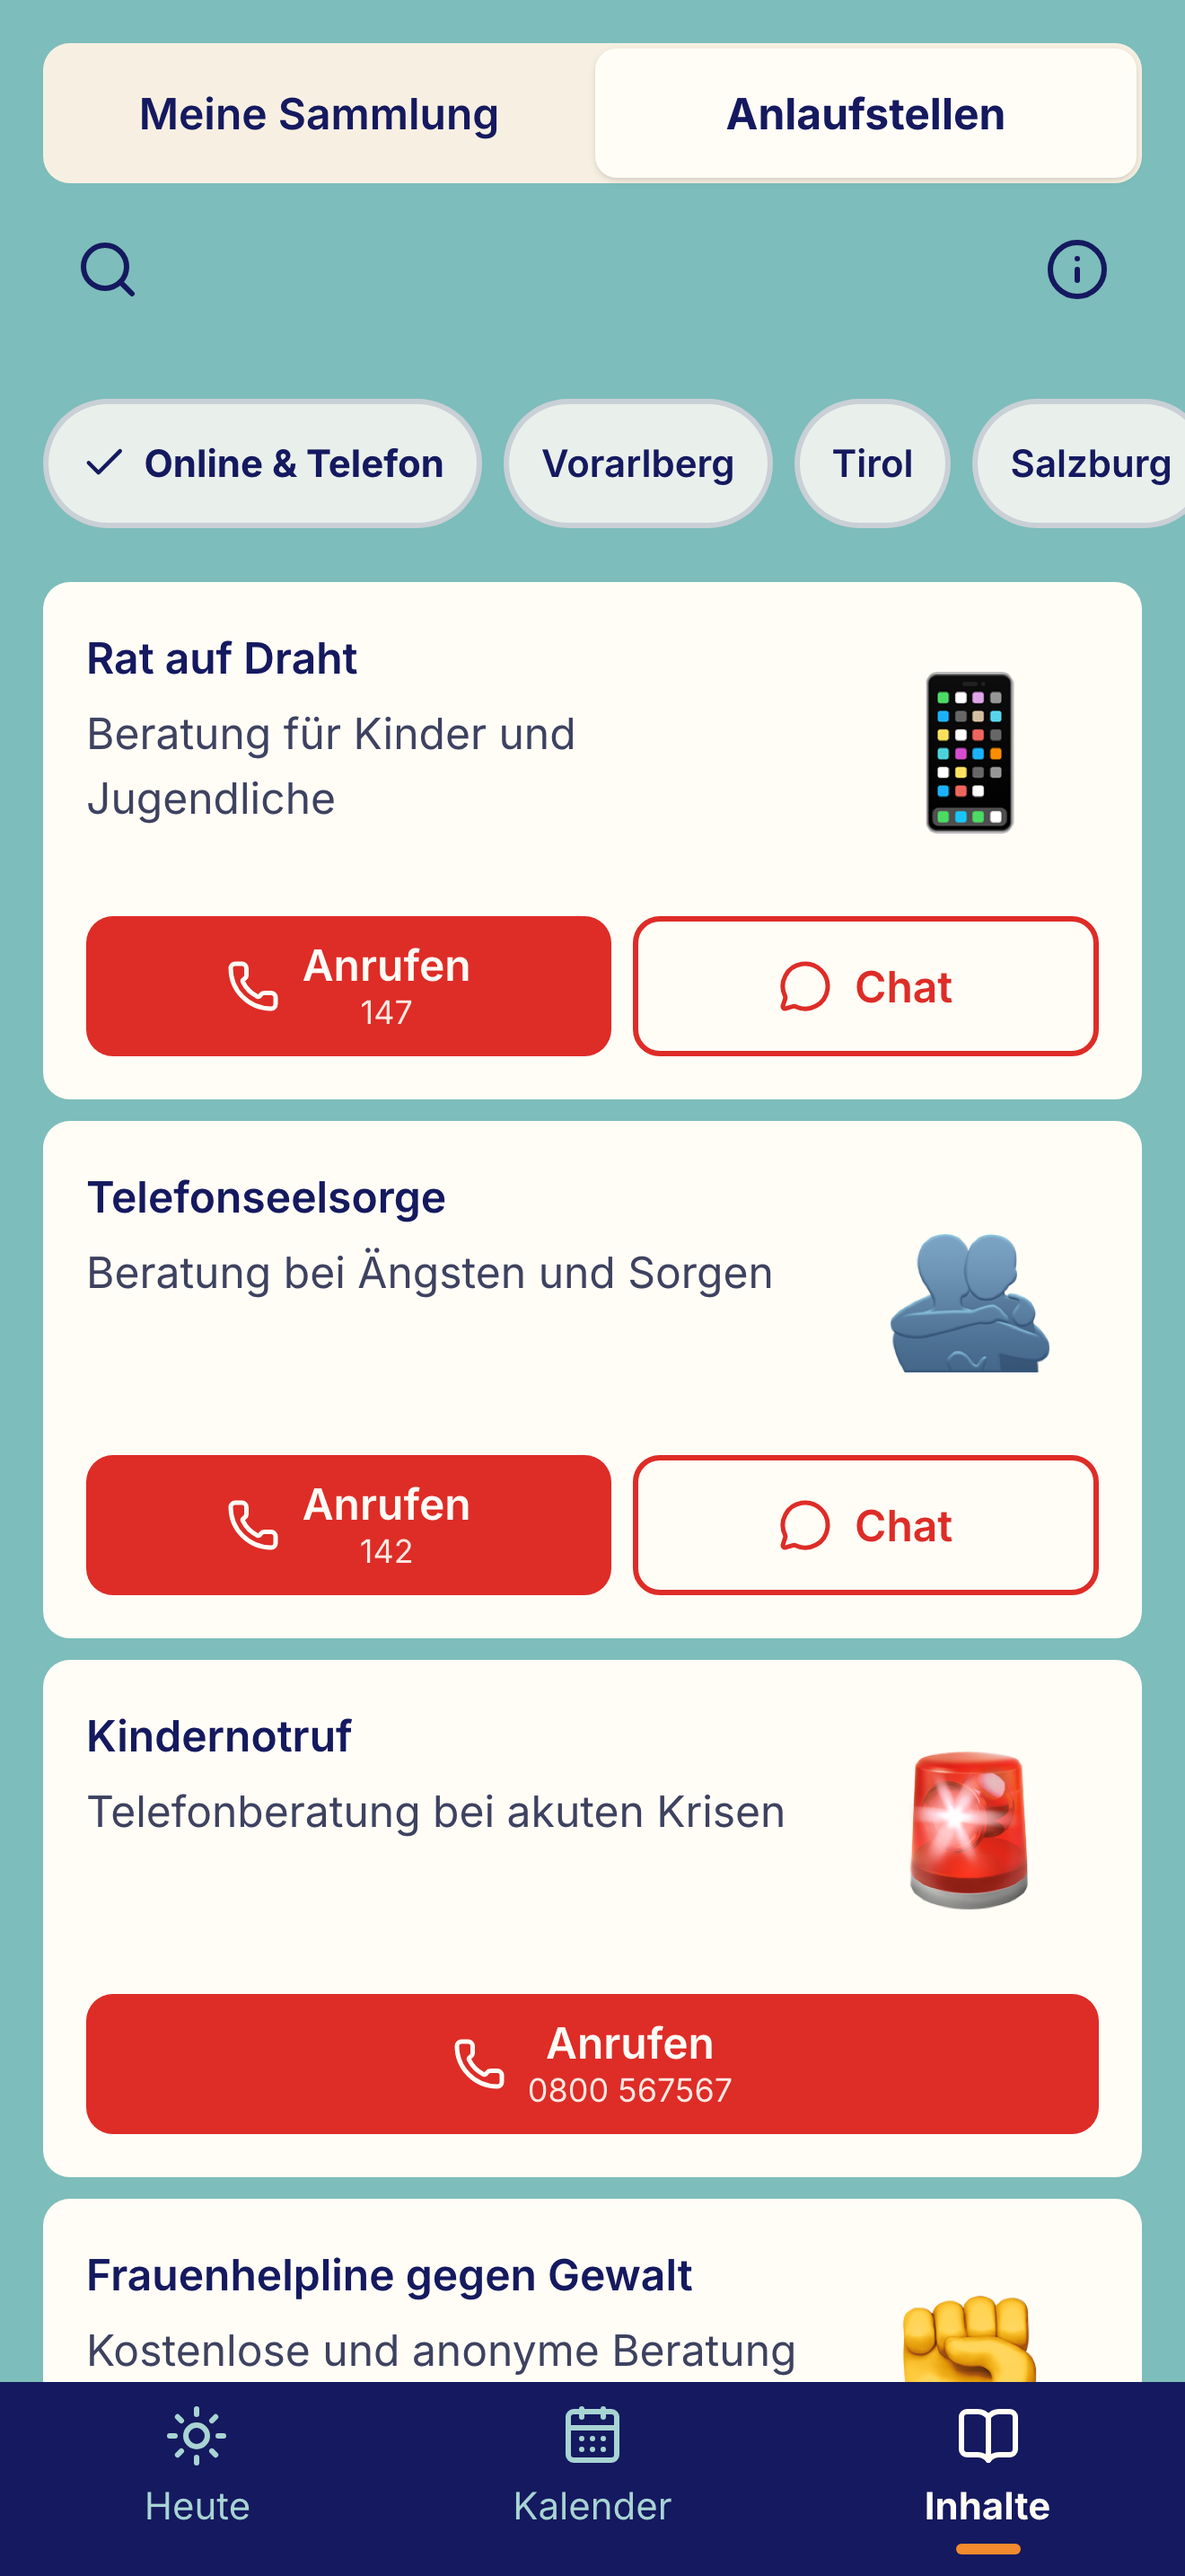
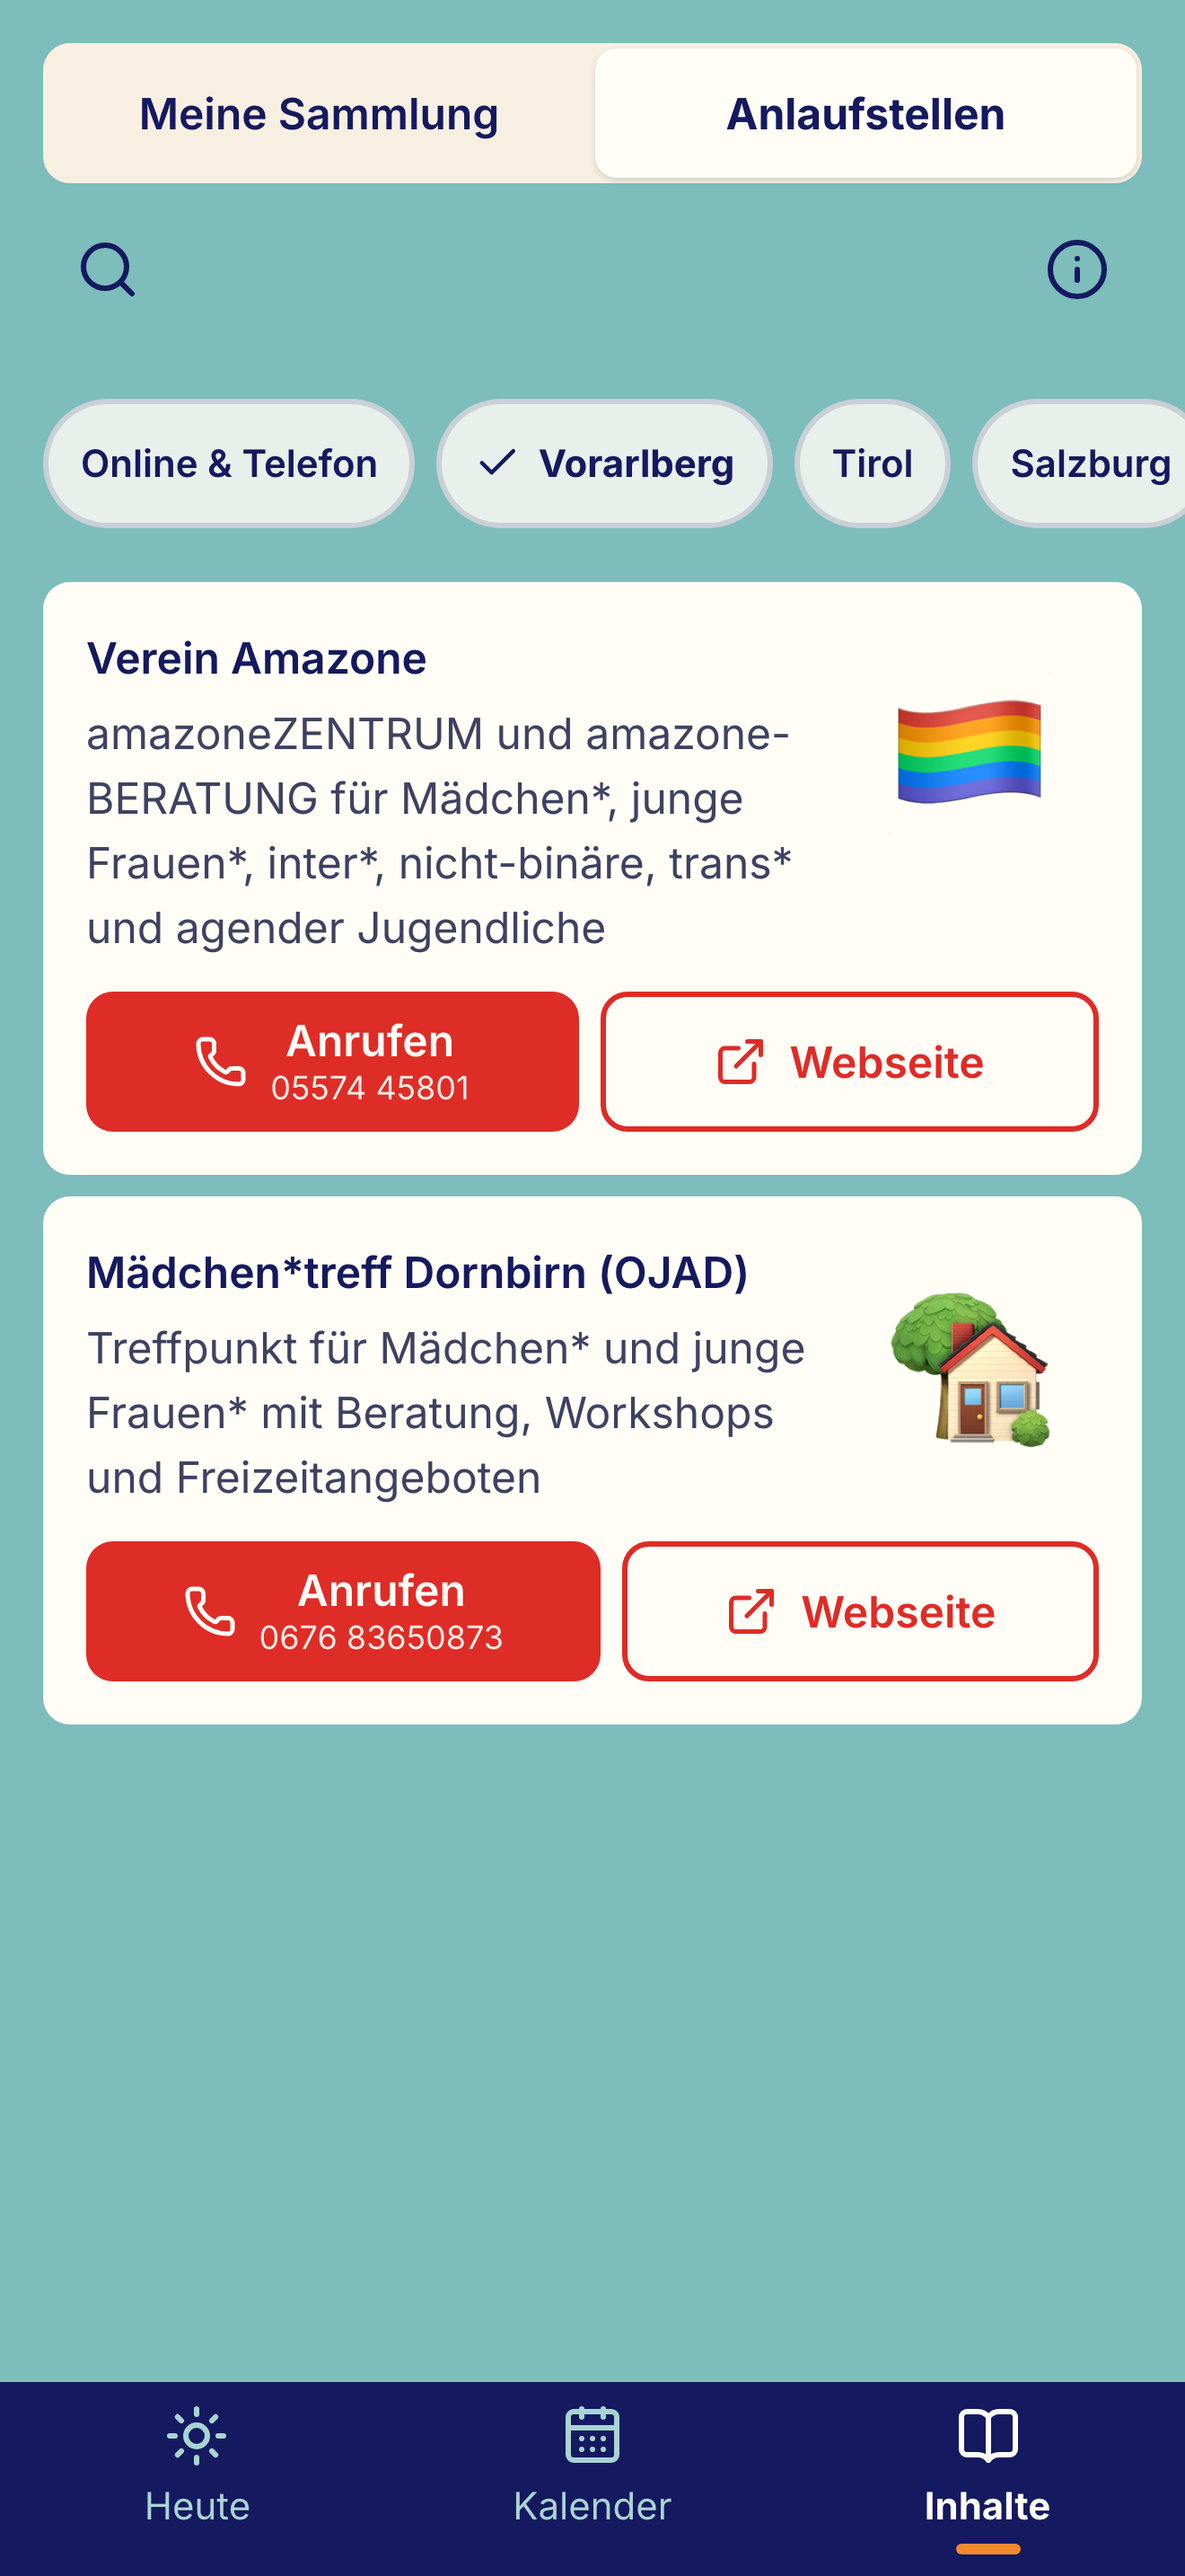
feat(store): refresh the store screenshots with Verein Amazone's picks
Verein Amazone asked for younger, more current content in the screenshots:

- Heute features the Wissensimpuls „Heute ist Feministischer Kampftag!“ instead of Clara Zetkin.
  The daily pick is weighted random, so the spec writes it into the impulse store.
- The Rebell*in is the astronaut Christina Koch (NASA portrait, public domain) instead of Ada
  Lovelace.
- The Wissensimpuls is #mikrofeminismus, and Meine Sammlung holds Christina Koch,
  #mikrofeminismus, „Ally“ and „Tipps gegen Hass im Netz“.
- Anlaufstellen opens on Vorarlberg, so Verein Amazone comes first.

All screenshots, the feature graphic (with the new icon) and the website's copies are re-rendered;
the website's alt texts and site/ASSETS.md follow the new content.

diff --git a/scripts/store-screenshots/store-screenshots.spec.ts b/scripts/store-screenshots/store-screenshots.spec.ts
@@ -34,13 +34,21 @@ const NOW = new Date('2026-03-08T09:30:00+01:00');
 const TODAY = '2026-03-08';
 
 /**
- * The content the screenshots show. Rebell*innen whose portraits are in the public domain and
- * Wissensimpulse illustrated by Verein Amazone itself, so no screenshot carries third-party licence
- * terms into the store (see `public/content/images.json`).
+ * The content the screenshots show, as Verein Amazone chose it: a Rebell*in of today whose portrait
+ * is in the public domain (Christina Koch) and Wissensimpulse illustrated by Verein Amazone itself,
+ * so no screenshot carries third-party licence terms into the store (see
+ * `public/content/images.json`).
  */
-const REBELLIN_ID = 'reb-09';
-const WISSEN_ID = 'wi-10';
-const BOOKMARKED_IDS = [REBELLIN_ID, WISSEN_ID, 'reb-33', 'wi-08'];
+const REBELLIN_ID = 'reb-02';
+const WISSEN_ID = 'wi-06';
+const BOOKMARKED_IDS = [REBELLIN_ID, WISSEN_ID, 'wi-18', 'wi-07'];
+
+/**
+ * Heute's impulse: „Heute ist Feministischer Kampftag!“, which fits the pinned date. The daily pick
+ * is weighted random over the catalog, so it is written into the store instead of left to chance -
+ * the stored pick for today is what Heute shows (see `DailyImpulseInteractor`).
+ */
+const IMPULSE_ID = 'wi-08';
 
 /** Stores read the colour values only; an alpha channel makes Play reject the feature graphic. */
 async function writeOpaquePng(png: Buffer, path: string): Promise<void> {
@@ -158,11 +166,25 @@ test.describe('store screenshots', () => {
       path: string;
       ready: (page: Page) => Promise<unknown>;
       before?: (page: Page) => Promise<unknown>;
+      /** Runs after the navigation, for state the route cannot express. */
+      prepare?: (page: Page) => Promise<unknown>;
     }[] = [
       {
         name: 'heute',
         path: '/today',
-        ready: (p) => expect(p.getByText('Kaffee mit Mira')).toBeVisible(),
+        ready: async (p) => {
+          await expect(p.getByText('Kaffee mit Mira')).toBeVisible();
+          await expect(p.getByText('Heute ist Feministischer Kampftag!')).toBeVisible();
+        },
+        before: (p) =>
+          p.evaluate(
+            ({ day, itemId }) =>
+              localStorage.setItem(
+                'rk.dailyImpulse',
+                JSON.stringify({ day, itemId, recentIds: [itemId], seenDay: day }),
+              ),
+            { day: TODAY, itemId: IMPULSE_ID },
+          ),
       },
       {
         name: 'kalender',
@@ -172,7 +194,7 @@ test.describe('store screenshots', () => {
       {
         name: 'rebellin',
         path: `/content/${REBELLIN_ID}`,
-        ready: (p) => expect(p.getByRole('heading', { name: 'Ada Lovelace' })).toBeVisible(),
+        ready: (p) => expect(p.getByRole('heading', { name: 'Christina Koch' })).toBeVisible(),
       },
       {
         name: 'wissen',
@@ -182,12 +204,14 @@ test.describe('store screenshots', () => {
       {
         name: 'sammlung',
         path: '/content?area=collection',
-        ready: (p) => expect(p.getByText('Marie Curie')).toBeVisible(),
+        ready: (p) => expect(p.getByText('Christina Koch')).toBeVisible(),
       },
       {
         name: 'anlaufstellen',
         path: '/content?area=services',
-        ready: (p) => expect(p.getByText('Rat auf Draht')).toBeVisible(),
+        // Verein Amazone's own region, so the list opens with Verein Amazone.
+        prepare: (p) => p.getByRole('radio', { name: 'Vorarlberg' }).click(),
+        ready: (p) => expect(p.getByText('Verein Amazone').first()).toBeVisible(),
       },
       {
         name: 'monat',
@@ -207,6 +231,7 @@ test.describe('store screenshots', () => {
     for (const [index, shot] of shots.entries()) {
       await shot.before?.(page);
       await page.goto(shot.path);
+      await shot.prepare?.(page);
       await shot.ready(page);
       await settle(page);
       const file = `${String(index + 1).padStart(2, '0')}-${shot.name}.png`;

diff --git a/site/ASSETS.md b/site/ASSETS.md
@@ -7,9 +7,9 @@ copies that folder to the published site as is.
 | File                                     | Source                                                                                                                                                                                  | Basis for use                                                                                                                                                                                                             |
 | ---------------------------------------- | --------------------------------------------------------------------------------------------------------------------------------------------------------------------------------------- | ------------------------------------------------------------------------------------------------------------------------------------------------------------------------------------------------------------------------- |
 | `assets/icon.webp`                       | `resources/app-icons/cool-cat-nacht.png`, resized to 256 px with `cwebp -q 85` (16 October 2026)                                                                                        | The app's default icon, supplied by Verein Amazone (see `docs/app-icon.md`).                                                                                                                                              |
-| `assets/screens/heute.webp`              | `fastlane/screenshots/de-DE/01-heute.png`, `cwebp -q 82 -resize 600 0`                                                                                                                  | The app's own screen. Shows the portrait of Clara Zetkin, public domain (`public/content/images.json`, id `clara-josephine-zetkin`).                                                                                      |
+| `assets/screens/heute.webp`              | `fastlane/screenshots/de-DE/01-heute.png`, `cwebp -q 82 -resize 600 0`                                                                                                                  | The app's own screen. Shows the illustration of the Wissensimpuls „Heute ist Feministischer Kampftag!“, Verein Amazone, CC BY-NC-ND 4.0 (`public/content/images.json`, id `heute-ist-feministischer-kampftag`).           |
 | `assets/screens/kalender.webp`           | `fastlane/screenshots/de-DE/02-kalender.png`, same conversion                                                                                                                           | The app's own screen with invented demo appointments.                                                                                                                                                                     |
-| `assets/screens/rebellin.webp`           | `fastlane/screenshots/de-DE/03-rebellin.png`, same conversion                                                                                                                           | The app's own screen. Shows the portrait of Ada Lovelace by Alfred Edward Chalon, public domain (`public/content/images.json`, id `ada-lovelace`).                                                                        |
+| `assets/screens/rebellin.webp`           | `fastlane/screenshots/de-DE/03-rebellin.png`, same conversion                                                                                                                           | The app's own screen. Shows the NASA portrait of Christina Koch by Bill Stafford, public domain (`public/content/images.json`, id `christina-koch`).                                                                      |
 | `assets/screens/anlaufstellen.webp`      | `fastlane/screenshots/de-DE/06-anlaufstellen.png`, same conversion                                                                                                                      | The app's own screen, the same image as the store screenshot. The emoji are the system emoji font of the machine that rendered the screenshot.                                                                            |
 | `assets/badges/app-store-de.svg`         | Apple's badge tool, `https://toolbox.marketingtools.apple.com/api/badges/download-on-the-app-store/black/de-de` (16 October 2026)                                                       | Apple's App Store marketing guidelines: the official badge, unaltered, linking to the app's product page.                                                                                                                 |
 | `assets/badges/google-play-de.png`       | `https://play.google.com/intl/en_us/badges/static/images/badges/de_badge_web_generic.png` (16 October 2026)                                                                             | Google Play badge guidelines: the official badge, unaltered, linking to the app's listing.                                                                                                                                |

diff --git a/docs/store-sign-off-1.0.0.md b/docs/store-sign-off-1.0.0.md
@@ -110,7 +110,10 @@ Meine Sammlung, Anlaufstellen, Kalender (Monat). Gezeigt werden nur Porträts, d
 und Wissensbilder von Verein Amazone selbst. Dazu für Google Play eine Titelgrafik (App-Symbol und
 Name „Rebell\*innen“, darunter „Dein feministischer Kalender. Ohne Konto. Alles bleibt bei dir.“)
 und das App-Symbol „Cool Cat Nacht“. Neu erzeugt mit dem neuen Namen, dem Kalender „Rebell\*innen
-Termine“ und den neuen App-Symbolen.
+Termine“ und den neuen App-Symbolen. Inhalte wie per Mail gewünscht: Heute zeigt den Wissensimpuls
+„Heute ist Feministischer Kampftag!“, die Rebell\*in ist Christina Koch, der Wissensimpuls
+#mikrofeminismus, Meine Sammlung enthält außerdem „Ally“ und „Tipps gegen Hass im Netz“, und die
+Anlaufstellen zeigen Vorarlberg mit Verein Amazone an erster Stelle.
 
 ☐ Screenshots und Titelgrafik freigegeben – Änderungen: …
 
